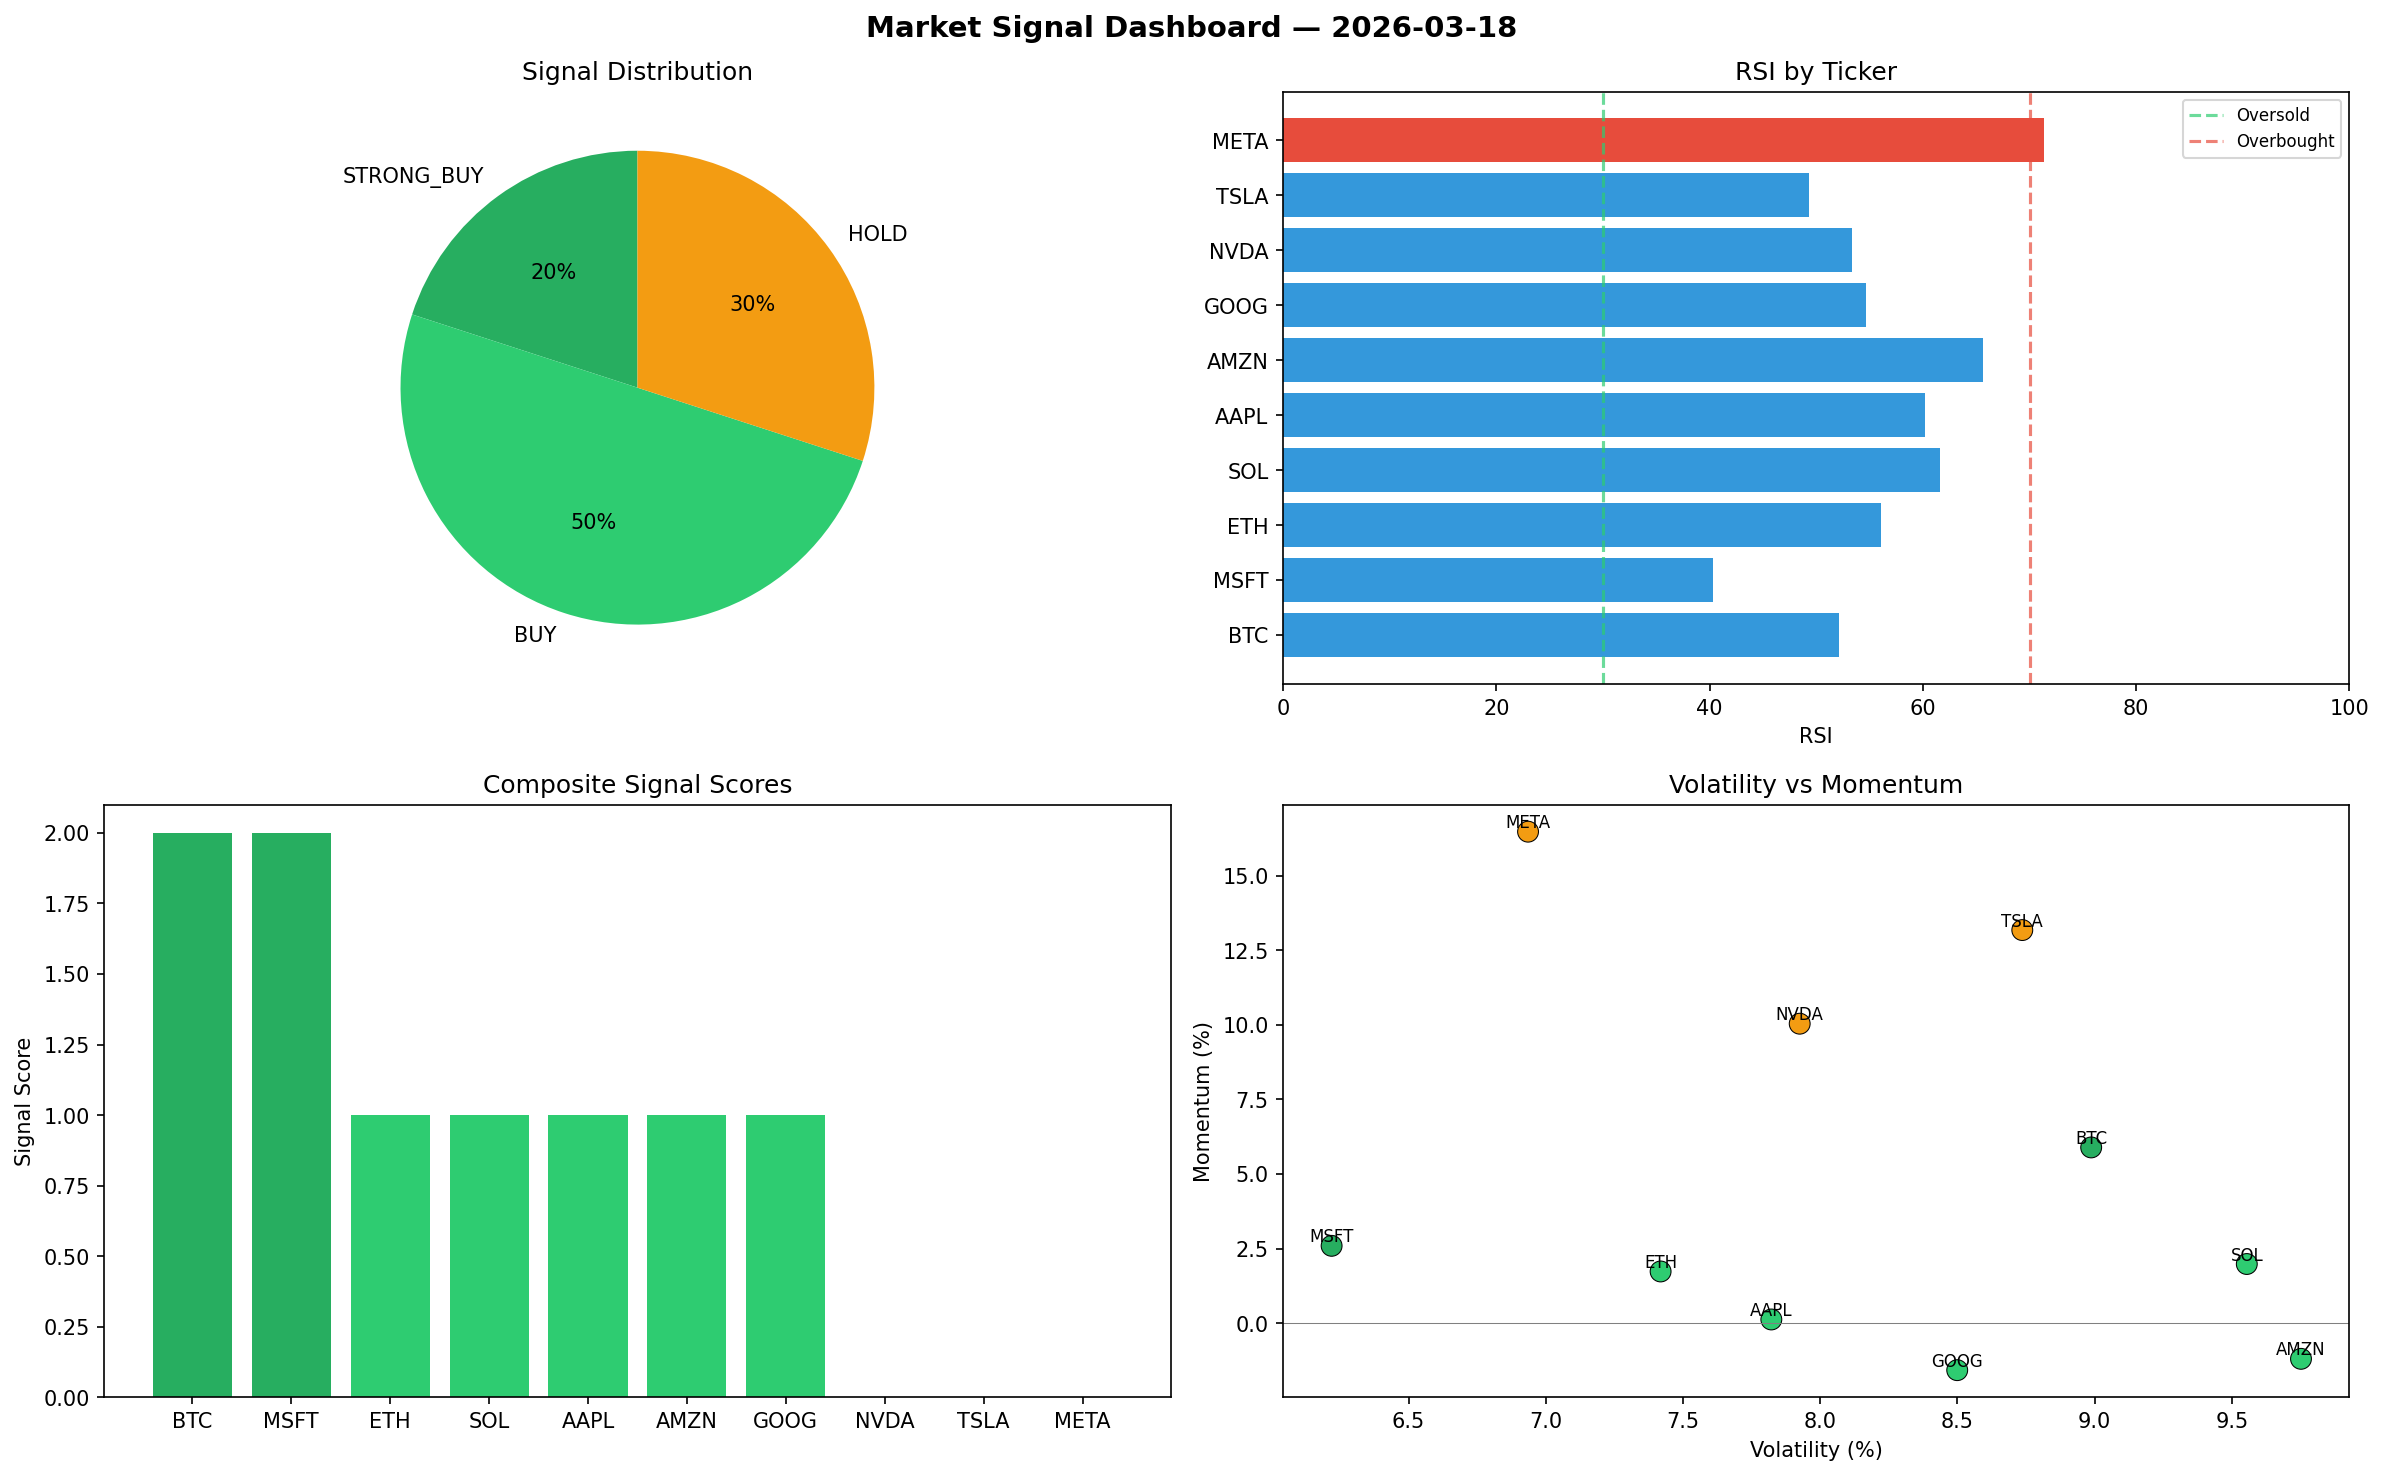
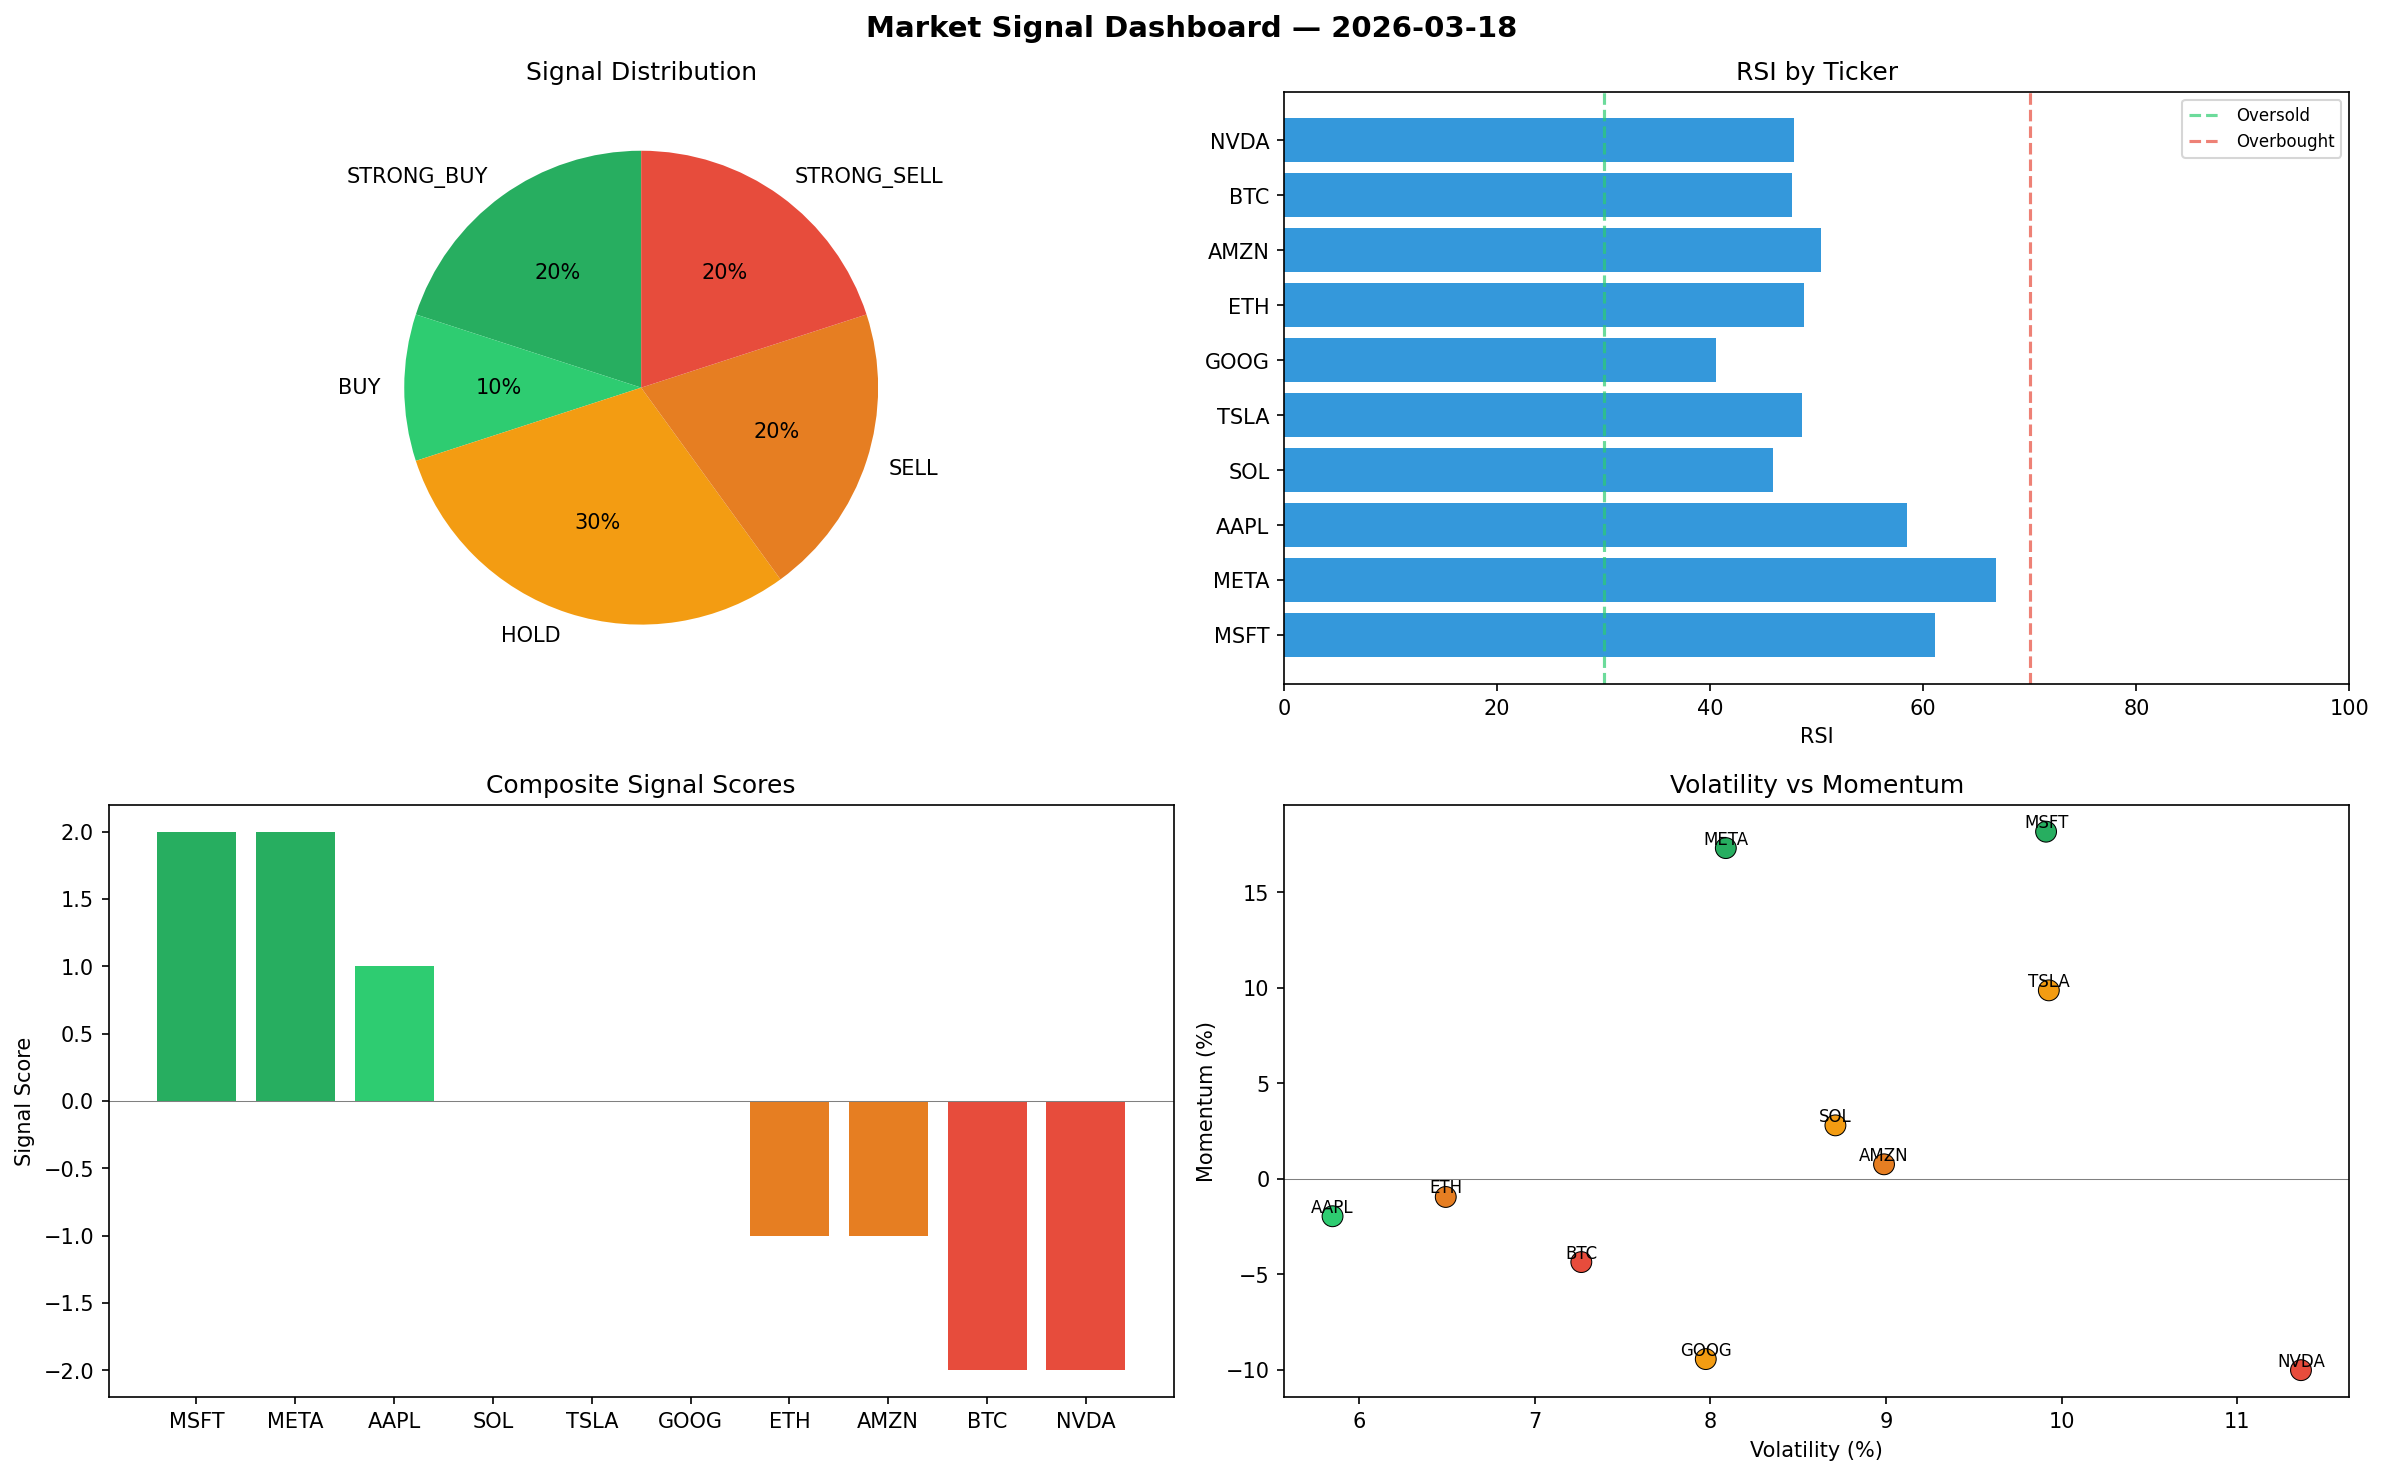
automated-bots: market signals 2026-03-18T09:12

diff --git a/logs/2026-03-18.md b/logs/2026-03-18.md
@@ -1,6 +1,6 @@
 # Market Signal Report — 2026-03-18
 
-**Run ID:** `8d31cbff51` | **Buy:** 7 | **Sell:** 0 | **Hold:** 3
+**Run ID:** `27dfec67bb` | **Buy:** 3 | **Sell:** 4 | **Hold:** 3
 
 ![Dashboard](2026-03-18_dashboard.png)
 
@@ -8,28 +8,28 @@
 
 | Ticker | Price | Signal | Score | RSI | Momentum | Confidence |
 |--------|-------|--------|-------|-----|----------|------------|
-| BTC | $2839.99 | **STRONG_BUY** | 2 | 52.15 | 0.0589 | 0.5 |
-| MSFT | $952.16 | **STRONG_BUY** | 2 | 40.29 | 0.0259 | 0.5 |
-| ETH | $835.0 | **BUY** | 1 | 56.11 | 0.0173 | 0.25 |
-| SOL | $4600.9 | **BUY** | 1 | 61.62 | 0.0198 | 0.25 |
-| AAPL | $1835.37 | **BUY** | 1 | 60.18 | 0.0012 | 0.25 |
-| AMZN | $1999.33 | **BUY** | 1 | 65.61 | -0.012 | 0.25 |
-| GOOG | $1784.7 | **BUY** | 1 | 54.64 | -0.0158 | 0.25 |
-| NVDA | $1901.21 | **HOLD** | 0 | 53.36 | 0.1004 | 0.0 |
-| TSLA | $4940.16 | **HOLD** | 0 | 49.33 | 0.1318 | 0.0 |
-| META | $4571.25 | **HOLD** | 0 | 71.32 | 0.1648 | 0.0 |
+| MSFT | $2539.9 | **STRONG_BUY** | 2 | 61.12 | 0.1817 | 0.5 |
+| META | $3133.49 | **STRONG_BUY** | 2 | 66.82 | 0.1731 | 0.5 |
+| AAPL | $3222.91 | **BUY** | 1 | 58.51 | -0.0197 | 0.25 |
+| SOL | $4322.55 | **HOLD** | 0 | 45.92 | 0.0279 | 0.0 |
+| TSLA | $4250.04 | **HOLD** | 0 | 48.58 | 0.0986 | 0.0 |
+| GOOG | $4272.8 | **HOLD** | 0 | 40.51 | -0.0945 | 0.0 |
+| ETH | $146.8 | **SELL** | -1 | 48.8 | -0.0096 | 0.25 |
+| AMZN | $291.33 | **SELL** | -1 | 50.36 | 0.0075 | 0.25 |
+| BTC | $1613.12 | **STRONG_SELL** | -2 | 47.64 | -0.0437 | 0.5 |
+| NVDA | $4481.31 | **STRONG_SELL** | -2 | 47.83 | -0.1003 | 0.5 |
 
 ## Delta vs Yesterday
 
 | Ticker | Today | Yesterday | Price Change | Signal Changed |
 |--------|-------|-----------|-------------|----------------|
-| BTC | STRONG_BUY | STRONG_BUY | 📈 315.43% | — |
-| MSFT | STRONG_BUY | STRONG_BUY | 📉 -33.71% | — |
-| ETH | BUY | HOLD | 📈 1022.46% | ⚠ YES |
-| SOL | BUY | SELL | 📈 162.74% | ⚠ YES |
-| AAPL | BUY | STRONG_SELL | 📉 -54.72% | ⚠ YES |
-| AMZN | BUY | STRONG_BUY | 📈 149.71% | ⚠ YES |
-| GOOG | BUY | STRONG_SELL | 📈 40.48% | ⚠ YES |
-| NVDA | HOLD | SELL | 📈 215.75% | ⚠ YES |
-| TSLA | HOLD | BUY | 📈 88.07% | ⚠ YES |
-| META | HOLD | STRONG_SELL | 📈 83.3% | ⚠ YES |
+| MSFT | STRONG_BUY | STRONG_BUY | 📈 76.84% | — |
+| META | STRONG_BUY | STRONG_SELL | 📈 25.64% | ⚠ YES |
+| AAPL | BUY | STRONG_SELL | 📉 -20.48% | ⚠ YES |
+| SOL | HOLD | SELL | 📈 146.85% | ⚠ YES |
+| TSLA | HOLD | BUY | 📈 61.8% | ⚠ YES |
+| GOOG | HOLD | STRONG_SELL | 📈 236.32% | ⚠ YES |
+| ETH | SELL | HOLD | 📈 97.34% | ⚠ YES |
+| AMZN | SELL | STRONG_BUY | 📉 -63.61% | ⚠ YES |
+| BTC | STRONG_SELL | STRONG_BUY | 📈 135.97% | ⚠ YES |
+| NVDA | STRONG_SELL | SELL | 📈 644.24% | ⚠ YES |
